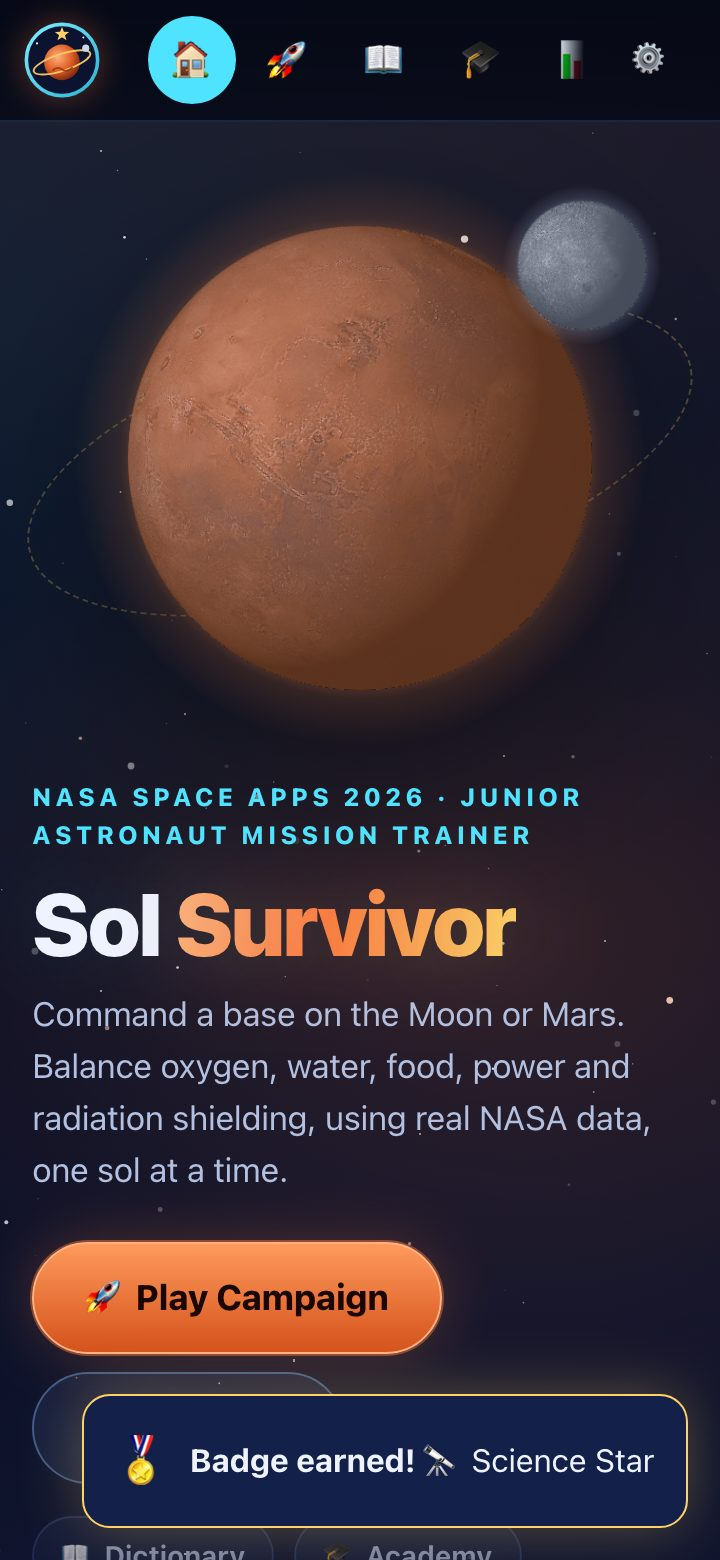
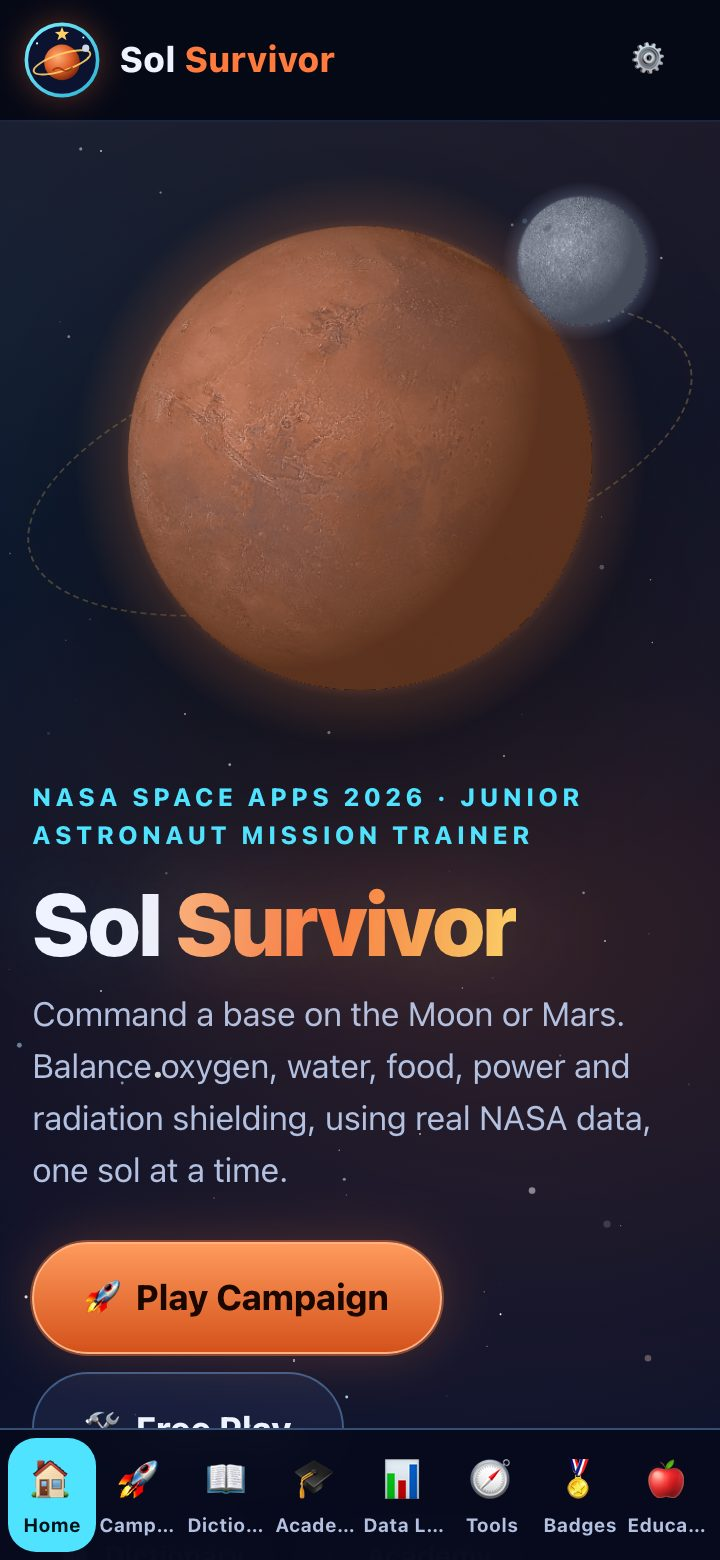
style: polish data lab, play and shell styles; refresh screenshots

diff --git a/src/styles/shell.css b/src/styles/shell.css
@@ -1,4 +1,5 @@
 /* App shell: header, navigation, main view, footer. */
+html { scroll-padding-top: 76px; }
 .app-header {
   position: sticky;
   top: 0;
@@ -79,10 +80,27 @@
 .app-footer a { color: var(--text-dim); }
 
 @media (max-width: 760px) {
-  .brand-name { display: none; }
-  .main-nav { justify-content: flex-start; }
-  .main-nav .nav-label { display: none; }
-  .main-nav a { padding: 0 0.7rem; font-size: 1.15rem; }
+  .main-nav {
+    position: fixed;
+    z-index: 300;
+    left: 0;
+    right: 0;
+    bottom: 0;
+    justify-content: space-around;
+    gap: 0;
+    padding: 0.25rem 0.25rem calc(0.25rem + env(safe-area-inset-bottom));
+    background: rgba(6, 10, 28, 0.94);
+    border-top: 1px solid var(--line-strong);
+    backdrop-filter: blur(10px);
+    -webkit-mask-image: none;
+    mask-image: none;
+  }
+  .main-nav a { flex: 1 1 0; min-width: 0; flex-direction: column; gap: 0.1rem; min-height: 52px; padding: 0.3rem 0.1rem; border-radius: var(--r-md); justify-content: center; }
+  .main-nav .nav-icon { font-size: 1.25rem; }
+  .main-nav .nav-label { font-size: 0.6rem; font-weight: 700; overflow: hidden; text-overflow: ellipsis; max-width: 100%; }
+  .app-header { justify-content: space-between; backdrop-filter: none; background: rgba(4, 7, 20, 0.96); }
+  .app-footer { padding-bottom: calc(5rem + env(safe-area-inset-bottom)); }
+  .toast-stack { bottom: calc(4.75rem + env(safe-area-inset-bottom)) !important; }
 }
 
 @media print {

diff --git a/src/ui/screens/datalab/seasonCycle.js b/src/ui/screens/datalab/seasonCycle.js
@@ -64,12 +64,13 @@ function xLabels() {
     s('text', { x: PAD.left + innerW / 2, y: H - 2, 'text-anchor': 'middle', class: 'chart-label' }, 'Season (solar longitude, Ls)'));
 }
 
+// Tables ignore the 1px sr-only box, so the hidden data table needs a wrapper.
 function srTable(bins) {
-  return h('table', { class: 'sr-only' },
+  return h('div', { class: 'sr-only' }, h('table', null,
     h('caption', null, 'Average weather at Gale Crater for each 30 degrees of solar longitude'),
     h('thead', null, h('tr', null, ['Ls', 'Pressure (Pa)', 'High (°C)', 'Low (°C)', 'Sols'].map((t) => h('th', { scope: 'col' }, t)))),
     h('tbody', null, bins.map((b) => h('tr', null,
-      h('th', { scope: 'row' }, `${b.lsStart}–${b.lsStart + 30}°`), h('td', null, b.pressurePa), h('td', null, b.maxC), h('td', null, b.minC), h('td', null, b.sols)))));
+      h('th', { scope: 'row' }, `${b.lsStart}–${b.lsStart + 30}°`), h('td', null, b.pressurePa), h('td', null, b.maxC), h('td', null, b.minC), h('td', null, b.sols))))));
 }
 
 const indexBy = (bins, pick) => bins.reduce((best, b, i) => (Number.isFinite(b.pressurePa) && (best < 0 || pick(b.pressurePa, bins[best].pressurePa)) ? i : best), -1);

diff --git a/src/styles/datalab.css b/src/styles/datalab.css
@@ -22,6 +22,8 @@
 .dl-split { display: grid; gap: 1rem; grid-template-columns: minmax(0, 1.6fr) minmax(min(320px, 100%), 1fr); align-items: start; }
 @media (max-width: 960px) { .dl-split { grid-template-columns: minmax(0, 1fr); } }
 .dl-flat { padding: 0.25rem; }
+.dl-split > *, .dl-map-layout > *, .dl-panel .stack > * { min-width: 0; }
+.dl-panel .source-badge { max-width: 100%; }
 
 /* Stat cards */
 .dl-stats { display: grid; gap: 0.75rem; grid-template-columns: repeat(auto-fit, minmax(min(190px, 100%), 1fr)); }
@@ -120,6 +122,7 @@
 /* Compare worlds */
 .dl-compare th[scope='row'] { color: var(--text); font-size: var(--fs-sm); letter-spacing: 0; text-transform: none; min-width: 10rem; }
 .dl-compare thead th { font-size: var(--fs-sm); }
+.dl-compare-wrap { position: relative; }
 .dl-compare td { min-width: 9rem; }
 .dl-compare thead .dl-col-earth { color: #93c5fd; }
 .dl-compare thead .dl-col-moon { color: var(--moon); }

diff --git a/src/styles/play.css b/src/styles/play.css
@@ -136,7 +136,9 @@
 .crew-stat { display: grid; grid-template-columns: 3.4rem minmax(0, 1fr) auto; align-items: center; gap: 0.5rem; font-size: var(--fs-xs); }
 .crew-stat-label { color: var(--text-dim); }
 .crew-stat-num { text-align: right; }
-.task-picker { display: grid; grid-template-columns: repeat(5, 1fr); gap: 0.3rem; margin-top: 0.2rem; }
+.task-picker { display: grid; grid-template-columns: repeat(5, minmax(0, 1fr)); gap: 0.3rem; margin-top: 0.2rem; }
+.task-btn .task-name { hyphens: auto; text-align: center; }
+@media (max-width: 420px) { .task-btn .task-name { font-size: 0.56rem !important; } }
 .task-btn {
   display: grid;
   justify-items: center;
